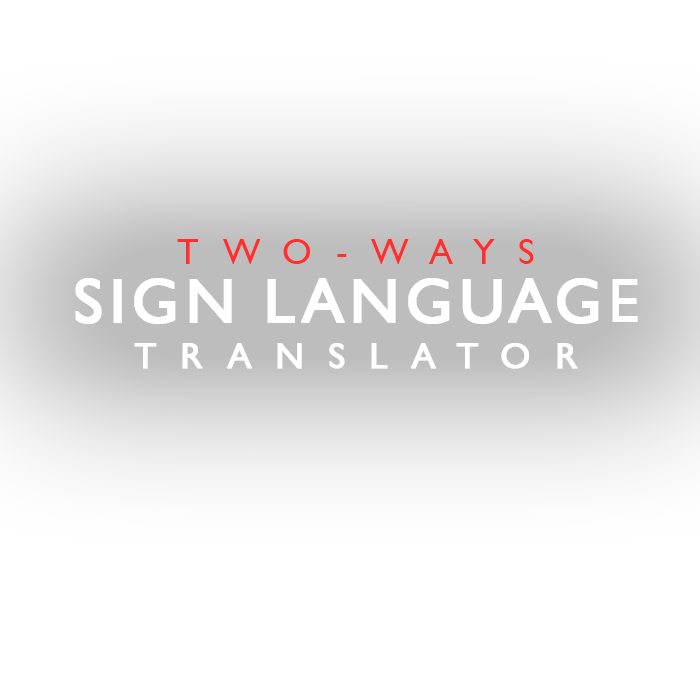
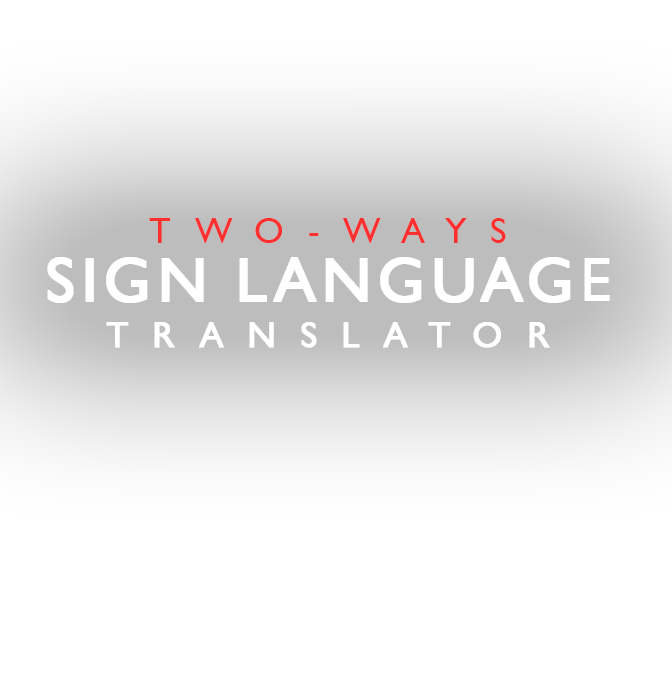
omarr4

Changed region(s): [[0.0625, 0.3093, 0.9062, 0.5258]]

diff --git a/lib/slide_item.dart b/lib/slide_item.dart
@@ -8,29 +8,6 @@ class SlideItem extends StatelessWidget {
 
   @override
   Widget build(BuildContext context) {
-    return Column(
-      crossAxisAlignment: CrossAxisAlignment.center,
-      children: <Widget>[
-        Text(
-          slideList[index].title1,
-          textAlign: TextAlign.center,
-          style: const TextStyle(
-              fontSize: 35,
-              decoration: TextDecoration.none,
-              fontFamily: 'gill',
-              color: Colors.red),
-        ),
-        const SizedBox(
-          height: 20,
-        ),
-        Text(slideList[index].title2,
-            textAlign: TextAlign.center,
-            style: const TextStyle(
-              color: Colors.white,
-              fontFamily: 'gill',
-              fontSize: 50,
-            ))
-      ],
-    );
+    return Center(child: Image.asset(slideList[index].title1));
   }
 }

diff --git a/lib/slide.dart b/lib/slide.dart
@@ -1,20 +1,18 @@
 import 'package:flutter/material.dart';
 
 class Slide {
-  final String title1;
-  final String title2;
+  var title1;
 
   Slide({
     required this.title1,
-    required this.title2,
   });
 }
 
 final slideList = [
   Slide(
-      title1: 'T W O - W A Y S ',
-      title2: ' SIGN LANGUAGE            T R A N S L A T O R '),
+    title1: "images/sign.png",
+  ),
   Slide(
-      title1: 'A communication platform',
-      title2: 'for helping the deaf and mute'),
+    title1: "images/sign.png",
+  ),
 ];
